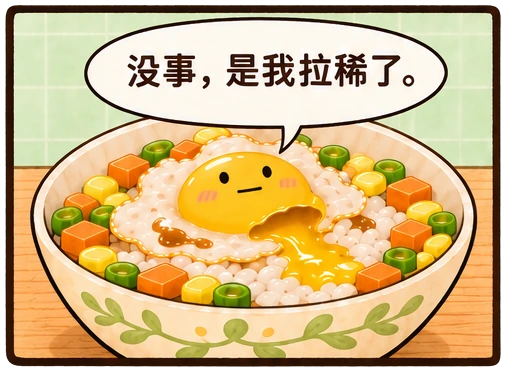
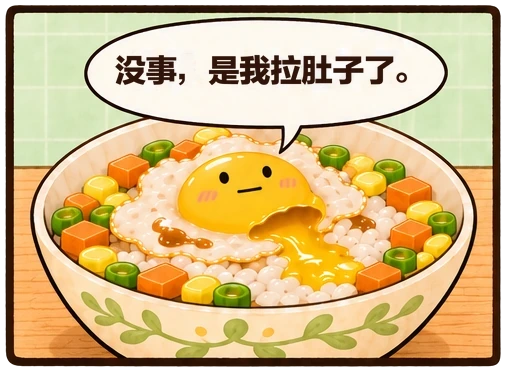
Ending reveal and one-by-one panels
- New version panels now appear one by one in place (old-version entrance: staggered slide from each panel's direction, hold still, whole beat fades up and out); ?reveal=flow keeps the strip-scroll for comparison. Next beat's panels never peek from the bottom edge.
- Ending split into worry (p6d alone, full reading hold) -> punchline (p6e bowl alone) -> closeup (mom frozen, 0.9 s beat, then three dots); worry and answer panels get centred solo reading places (soloPlace); old version still shows both together.
- p6e bubble text replaced in place: '没事，是我拉稀了。' -> '没事，是我拉肚子了。' (tools/replace_bubble_text.py: inpaint only the old lettering inside the bubble, re-letter in Lantinghei SC Heavy at the original height/centre/ink; original kept in source/comic-v3-edits/p6e-original.webp)
- audio-map: worry scene (room 0.2 -> 0.14 in hold)

Changed region(s): [[0.2075, 0.1183, 0.83, 0.2366]]

diff --git a/src/app/preview/visual/ComicLayer.tsx b/src/app/preview/visual/ComicLayer.tsx
@@ -8,7 +8,7 @@ import { Fragment, useEffect, useRef, useState, type CSSProperties, type ReactNo
 import { useScene } from "@/lib/scene-context";
 import { PANELS, type PanelSlot as PanelSpec } from "./slots";
 import { useViewport } from "./viewport";
-import { ChopPanel, HearPanel, PanelSignal, SaucePanel, StirfryPanel, usePerfEnabled } from "./PanelPerf";
+import { ChopPanel, HearPanel, PanelSignal, SaucePanel, StirfryPanel, usePerfEnabled, type Stage } from "./PanelPerf";
 import { BLINK_PANELS, BlinkLayer, ClosingBlink } from "./Blink";
 import FrameReact from "./FrameReact";
 import { KITCHEN_ONESHOT_EVENT } from "@/components/kitchen/useKitchenAudio";
@@ -245,6 +245,12 @@ function avoidEgg(list: PanelSpec[], places: Record<string, Place>, egg: Rect, v
   }
 }
 
+/** 入场方式（URL ?reveal=flow 切回条漫式整列上移；默认逐格出现） */
+function revealMode() {
+  if (typeof window === "undefined") return "step";
+  return new URLSearchParams(window.location.search).get("reveal") === "flow" ? "flow" : "step";
+}
+
 function FlowLayer() {
   const { timeline: t, beats, reducedMotion } = useScene();
   const vp = useViewport();
@@ -252,11 +258,20 @@ function FlowLayer() {
   const g = t.index + t.p;
   const index: Record<string, number> = {};
   beats.forEach((b, i) => (index[b.id] = i));
-  const visible = PANELS.filter((p) => !p.hideInFlow && index[p.beat] !== undefined && g - index[p.beat] > -0.16 && g - index[p.beat] < 1.16);
+  // 入场方式：默认"逐格出现"（用户 2026-11-14 偏好旧版：每段的格子在原位一张一张出现，停稳阅读，整段一起离开，
+  // 下一段的格子不会从屏幕下沿提前露出）；?reveal=flow 是之前的整列随滚动上移（条漫式），留作对比
+  const step = revealMode() !== "flow";
+  const visible = PANELS.filter((p) => {
+    if (p.hideInFlow || index[p.beat] === undefined) return false;
+    const q = g - index[p.beat];
+    return step ? q >= 0 && q < 1 : q > -0.16 && q < 1.16;
+  });
   const groups: Record<string, PanelSpec[]> = {};
   // 提前离场的格（exitAt 早于同段其他格）单独成组排版：它离开后，同段其他格的位置不受影响
   const groupOf = (p: PanelSpec) => (p.exitAt && p.exitAt[1] < 0.7 ? `${p.beat}:solo:${p.key}` : p.beat);
   for (const p of visible) if (p.role !== "closeup") (groups[groupOf(p)] ??= []).push(p);
+  // 逐格出现时，独占一段的格子可以有自己的阅读位置（slots.json soloPlace，例如结尾的担心格、回答格），位置换成它再排版
+  if (step) for (const [id, list] of Object.entries(groups)) if (list.length === 1 && list[0].soloPlace) groups[id] = [{ ...list[0], ...list[0].soloPlace }];
   const places: Record<string, Place> = {};
   const pans: Record<string, number> = {};
   const egg = EGG_VISIBLE.has(t.beat.egg) || EGG_VISIBLE.has(beats[t.index + 1]?.egg ?? "") ? eggRectNow(vp.w, vp.h) : null;
@@ -280,21 +295,47 @@ function FlowLayer() {
         const q = g - index[p.beat];
         if (p.role === "closeup") return <CloseupShot key={p.key} p={p} q={q} portrait={vp.portrait} vw={vp.w} reducedMotion={reducedMotion} seconds={beats[index[p.beat]].seconds} />;
         const i = p.order ?? 0;
-        const pos = places[p.key] ?? { x: p.x, y: p.y, w: p.w };
+        const pos = { ...(places[p.key] ?? { x: p.x, y: p.y, w: p.w }) };
         const hVh = hOf(p, pos.w, vp.w, vp.h);
         const pan = pans[p.key] ?? 0;
-        const [s0, s1] = p.enterAt ?? [-0.14 + i * 0.05, 0.34];
-        const [e0, e1] = p.exitAt ?? [0.7 + i * 0.03, 1.14];
-        // 竖屏整列较高时：停留阶段由滚动直接带动缓慢上移（读条漫），离场从上移后的位置继续
-        const panNow = pan * clamp01((q - s1) / (e0 - s1));
-        const enterOff = 100 - pos.y + 4;
-        const exitOff = pos.y - pan + hVh + 4;
-        let dy = -panNow;
-        if (q < s1) dy = enterOff * (1 - outCubic((q - s0) / (s1 - s0)));
-        else if (q > e0) dy = -pan - exitOff * inQuad((q - e0) / (e1 - e0));
-        // 格内表演的触发看格子在屏幕上的真实状态：入场结束、可见比例、是否开始离场（竖屏整列上移时也成立）
-        const topVh = pos.y + dy;
-        const stage = { vis: clamp01((Math.min(100, topVh + hVh) - Math.max(0, topVh)) / hVh), entered: q >= s1 - 0.02, leaving: q > e0 };
+        let dy: number, stage: Stage, wrap: CSSProperties | null = null;
+        if (step) {
+          // 逐格出现：本段进入阶段里按 order 错开，每格从自己的方向（slots.json from）小幅滑入并淡入，停在原位；
+          // 退出阶段整段淡出并略向上离开。格子位置仍用新版布局（fitPlaces / columnPlaces）。
+          const b = beats[index[p.beat]];
+          const ph = b.phases ?? { enter: 0.3, action: 0, hold: 0.45, exit: 0.25 };
+          const enterEnd = Math.max(0.05, ph.enter + ph.action * 0.5);
+          const exitStart = ph.enter + ph.action + ph.hold;
+          const group = groups[groupOf(p)] ?? [p];
+          const n = group.length;
+          const rank = group.filter((o) => (o.order ?? 0) < i).length;
+          const span = n === 1 ? 1 : 0.62;
+          const [s0, s1] = p.enterAt ?? (() => { const a = n === 1 ? 0 : (rank * (1 - span)) / (n - 1); return [a * enterEnd, (a + span) * enterEnd]; })();
+          const [e0, e1] = p.exitAt ?? [exitStart, 1];
+          const k = outCubic(clamp01((q - s0) / Math.max(1e-6, s1 - s0)));
+          const x = clamp01((q - e0) / Math.max(1e-6, e1 - e0));
+          const [ox, oy] = p.from === "seam" ? [0, 0] : offsetFor(p.from, k);
+          const panNow = pan * clamp01((q - s1) / Math.max(1e-6, e0 - s1));
+          dy = oy - panNow - 12 * inQuad(x);
+          const op = (p.from === "seam" ? k : Math.min(1, k * 1.4)) * (1 - inQuad(x));
+          const topVh = pos.y + dy;
+          stage = { vis: clamp01((Math.min(100, topVh + hVh) - Math.max(0, topVh)) / hVh) * (op >= 0.95 ? 1 : op), entered: q >= s1 - 0.01, leaving: q > e0 };
+          if (ox !== 0) pos.x += ox;
+          if (op < 1) wrap = { opacity: op };
+        } else {
+          const [s0, s1] = p.enterAt ?? [-0.14 + i * 0.05, 0.34];
+          const [e0, e1] = p.exitAt ?? [0.7 + i * 0.03, 1.14];
+          // 竖屏整列较高时：停留阶段由滚动直接带动缓慢上移（读条漫），离场从上移后的位置继续
+          const panNow = pan * clamp01((q - s1) / (e0 - s1));
+          const enterOff = 100 - pos.y + 4;
+          const exitOff = pos.y - pan + hVh + 4;
+          dy = -panNow;
+          if (q < s1) dy = enterOff * (1 - outCubic((q - s0) / (s1 - s0)));
+          else if (q > e0) dy = -pan - exitOff * inQuad((q - e0) / (e1 - e0));
+          // 格内表演的触发看格子在屏幕上的真实状态：入场结束、可见比例、是否开始离场（竖屏整列上移时也成立）
+          const topVh = pos.y + dy;
+          stage = { vis: clamp01((Math.min(100, topVh + hVh) - Math.max(0, topVh)) / hVh), entered: q >= s1 - 0.02, leaving: q > e0 };
+        }
         const reading = perf && stage.entered && !stage.leaving && stage.vis >= 0.9; // 静止读格：妈妈的脸格才会眨眼
         const panel =
           p.key === "p2b" ? <ChopPanel p={p} pos={pos} dy={dy} q={q} stage={stage} animate={perf} />
@@ -303,7 +344,7 @@ function FlowLayer() {
           : p.key === "p3a" ? <SaucePanel p={p} pos={pos} dy={dy} q={q} stage={stage} animate={perf} />
           : <FlowPanel p={p} pos={pos} dy={dy} blink={perf && BLINK_PANELS.has(p.key) ? reading : null} />;
         // 每一格都派发 comic:panel（到位 / 离场 / 复位），声音会话按格子挂声音
-        return <Fragment key={p.key}>{panel}<PanelSignal k={p.key} q={q} stage={stage} /></Fragment>;
+        return <Fragment key={p.key}>{wrap ? <div style={wrap}>{panel}</div> : panel}<PanelSignal k={p.key} q={q} stage={stage} /></Fragment>;
       })}
       {perf && <FrameReact />}
     </div>
@@ -400,7 +441,9 @@ function SlideLayer() {
   const vp = useViewport();
   const beat = beats[t.index];
   const hasCloseup = beats.some((b) => b.id === "closeup");
-  const list = PANELS.filter((p) => (p.beat === "closeup" && !hasCloseup ? "punchline" : p.beat) === beat.id);
+  const hasWorry = beats.some((b) => b.id === "worry");
+  // 旧版节拍表没有 closeup / worry 段：这两段的格子并回 punchline，和以前一样
+  const list = PANELS.filter((p) => ((p.beat === "closeup" && !hasCloseup) || (p.beat === "worry" && !hasWorry) ? "punchline" : p.beat) === beat.id);
   const n = Math.max(1, list.length);
   const places = vp.portrait ? stackPlaces(list, vp.w, vp.h) : null;
   return (

diff --git a/src/app/preview/visual/slots.ts b/src/app/preview/visual/slots.ts
@@ -26,6 +26,8 @@ export type PanelSlot = {
   order?: number;
   /** 新版流动排版里不显示（例如 p5d：会提前揭示蛋，改由独立拟声字表达“妈！这里！”）；旧版 v1 照常 */
   hideInFlow?: boolean;
+  /** 新版逐格出现时，这一格独占一段（同段只有它）用的位置（vw / vh）；旧版仍用 x / y / w */
+  soloPlace?: { x: number; y: number; w: number };
   /** 段内进场 / 离场的起止（段内 q，与 FlowLayer 默认的 [-0.14+0.05·order, 0.34] / [0.7+0.03·order, 1.14] 同单位）；
    *  离场早于同段其他格的（如 p5a“离开”格）单独排版，离开后不留空位 */
   enterAt?: [number, number];

diff --git a/tools/replace_bubble_text.py b/tools/replace_bubble_text.py
@@ -1,0 +1,94 @@
+"""局部替换漫画格对白泡里的文字（不重画整格、不叠字）。
+
+p6e（饭碗近景）："没事，是我拉稀了。" → "没事，是我拉肚子了。"（2026-11-14 用户要求）
+做法：只在对白泡内部、原文字的范围内找出墨色笔画（亮度 < 150），外扩 2 px 后用 OpenCV inpaint 补成泡内的纸色；
+再用接近原字形的粗黑体，按原文字的字高、基线、中心排新字，颜色取原墨色。泡的描边、尾巴和格内其它像素不动。
+输入：source/comic-v3-edits/p6e-original.webp（替换前的 p6e.webp 原样备份）。输出：public/assets/comic-v3/p6e.webp
+用法：python3 tools/replace_bubble_text.py [--font PATH --index N] [--preview OUT.png]
+"""
+import argparse
+import cv2
+import numpy as np
+from PIL import Image, ImageDraw, ImageFont
+
+A = "/System/Library/AssetsV2/com_apple_MobileAsset_Font8/"
+FONTS = {
+    "pingfang": (A + "86ba2c91f017a3749571a82f2c6d890ac7ffb2fb.asset/AssetData/PingFang.ttc", "PingFang SC", "Semibold"),
+    "lantinghei": (A + "f14049099a04e570b893c01d9a4cd71f87c9e8d8.asset/AssetData/Lantinghei.ttc", "Lantinghei SC", "Heavy"),
+    "lantinghei-demi": (A + "f14049099a04e570b893c01d9a4cd71f87c9e8d8.asset/AssetData/Lantinghei.ttc", "Lantinghei SC", "Demibold"),
+}
+SRC = "source/comic-v3-edits/p6e-original.webp"
+OUT = "public/assets/comic-v3/p6e.webp"
+TEXT = "没事，是我拉肚子了。"
+# 原文字范围（p6e 像素）：字形 x 128–413、y 54–88；泡内空白带 y 42–104
+OLD = (122, 50, 420, 92)
+CJK_H = 31  # 原字的方块字高（"没" "是" 等的墨色高度）；新句多一个字，默认缩到 29 px、字距略收，才能留在泡的内框里
+CENTER_X, TOP_Y = 270.5, 55  # 原文字的横向中心、字顶
+
+
+def font_for(key):
+    path, fam, style = FONTS[key]
+    for i in range(16):
+        try:
+            f = ImageFont.truetype(path, 100, index=i)
+        except OSError:
+            break
+        if f.getname() == (fam, style):
+            return path, i
+    raise SystemExit(f"找不到字体 {fam} {style}")
+
+
+def main():
+    ap = argparse.ArgumentParser()
+    ap.add_argument("--font", default="lantinghei")
+    ap.add_argument("--preview")
+    ap.add_argument("--stroke", type=float, default=0.0)
+    ap.add_argument("--height", type=float, default=29.0)
+    ap.add_argument("--tracking", type=float, default=-0.6, help="字距调整（p6e 像素，负 = 收紧）")
+    args = ap.parse_args()
+    im = Image.open(SRC).convert("RGBA")
+    rgba = np.asarray(im).copy()
+    rgb = rgba[..., :3].copy()
+    x0, y0, x1, y1 = OLD
+    lum = rgb.astype(float).mean(2)
+    mask = np.zeros(lum.shape, np.uint8)
+    mask[y0:y1, x0:x1] = (lum[y0:y1, x0:x1] < 150).astype(np.uint8) * 255
+    ink = np.median(rgb[y0:y1, x0:x1][lum[y0:y1, x0:x1] < 70], axis=0)
+    mask = cv2.dilate(mask, np.ones((5, 5), np.uint8))
+    clean = cv2.inpaint(np.ascontiguousarray(rgb[..., ::-1]), mask, 4, cv2.INPAINT_TELEA)[..., ::-1]
+    rgb = clean.copy()
+    # 新字：4 倍超采样排版，再缩回
+    S = 4
+    path, idx = font_for(args.font)
+    probe = ImageFont.truetype(path, 100 * S, index=idx)
+    bb = probe.getbbox("是")
+    size = round(100 * S * args.height * S / (bb[3] - bb[1]))
+    f = ImageFont.truetype(path, size, index=idx)
+    W, H = im.width * S, im.height * S
+    layer = Image.new("L", (W, H), 0)
+    d = ImageDraw.Draw(layer)
+    gb = f.getbbox("是")
+    adv = [f.getlength(ch) + args.tracking * S for ch in TEXT]
+    tw = sum(adv[:-1]) + f.getbbox(TEXT[-1])[2]
+    x = CENTER_X * S - tw / 2
+    y = (TOP_Y + (CJK_H - args.height) / 2) * S - gb[1]
+    for ch, w in zip(TEXT, adv):
+        d.text((x, y), ch, font=f, fill=255, stroke_width=round(args.stroke * S), stroke_fill=255)
+        x += w
+    a = np.asarray(layer.resize((im.width, im.height), Image.LANCZOS)).astype(float) / 255
+    out = rgb.astype(float) * (1 - a[..., None]) + ink[None, None, :] * a[..., None]
+    rgba[..., :3] = np.clip(out, 0, 255).astype(np.uint8)
+    res = Image.fromarray(rgba, "RGBA")
+    ys, xs = np.where(a > 0.3)
+    print(f"font {FONTS[args.font][1]} {FONTS[args.font][2]} size {size / S:.1f}px  new text x {xs.min()}–{xs.max()}  y {ys.min()}–{ys.max()}  ink {ink.round()}")
+    if args.preview:
+        bg = Image.new("RGBA", res.size, (200, 200, 200, 255))
+        bg.alpha_composite(res)
+        bg.convert("RGB").resize((res.width * 2, res.height * 2), Image.LANCZOS).save(args.preview)
+    else:
+        res.save(OUT, quality=92, alpha_quality=100, method=6)
+        print("wrote", OUT)
+
+
+if __name__ == "__main__":
+    main()
